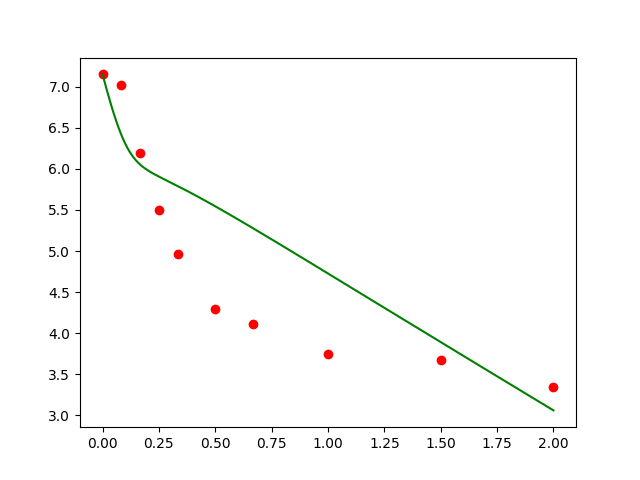
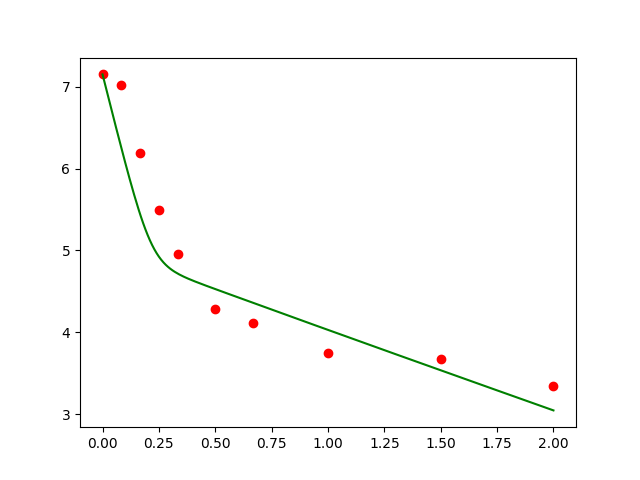
plot com 30 geracoes

diff --git a/HCV_EDP_fitting/differential_evolution.py b/HCV_EDP_fitting/differential_evolution.py
@@ -126,7 +126,7 @@ bounds = [(0.09,0.99),(0.09,0.99),(0.09,0.99),(0.01,1.2),(25,35),(0.9,2.0),(6,12
 popsize = 10                                               # Population size, must be >= 4
 mutate = 0.5                                               # Mutation factor [0,2]
 recombination = 0.7                                        # Recombination rate [0,1]
-maxiter = 10                                               # Max number of generations (maxiter)
+maxiter = 30                                               # Max number of generations (maxiter)
 
 #Vetor com todos os pacientes
 patients = [ ]
@@ -189,7 +189,7 @@ if __name__ == "__main__":
         
         #Plot da solucao com a media dos parametros
         cost_func(average_param, pat, (10**pat[0]))
-
+        saida.writelines('\nA media dos 10 melhores individuos e: '+str(average_param)+'\n\n')
         plt.savefig("figura"+str(pat_cont)+".png")
         pat_cont = pat_cont + 1
 
